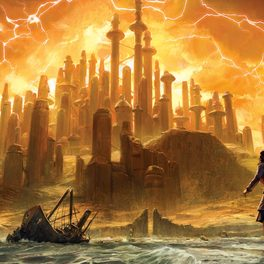
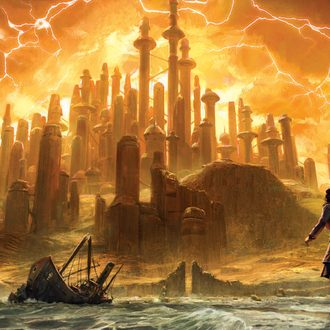
feat: larger pack tiles, art regenerated to match
Pack tiles grow from 176px to 220px squares, the widest that still sets
two two-pack cycles side by side beside the search rail at 1366px; the
medallion and type grow with them. The art tiles are regenerated at
330px, 1.5x the new size (20-34 KB each).

A cycle head now takes its cycle's width instead of setting it, and
wraps its count under a long title: The Innsmouth Conspiracy's head was
wider than its two tiles and pushed Edge of the Earth onto a row alone.

diff --git a/css/style.css b/css/style.css
@@ -534,9 +534,13 @@ a{color:inherit;text-decoration:none}
 }
 .cycle{flex:0 1 auto;min-width:0;max-width:100%}
 
-/* Green band under the head, as wide as the cycle it names. */
+/* Green band under the head, as wide as the cycle it names. The head takes
+   the cycle's width rather than setting it (width 0, min-width 100%), so a
+   long title wraps its count below instead of widening the block past its
+   packs and pushing the next cycle off the row. */
 .section-head{
-  display:flex;align-items:baseline;gap:14px;
+  display:flex;align-items:baseline;flex-wrap:wrap;gap:2px 14px;
+  width:0;min-width:100%;
   padding:30px 0 12px;margin-bottom:18px;
   border-bottom:0;
   background-image:var(--teal-rule),var(--green-sep);
@@ -556,7 +560,7 @@ a{color:inherit;text-decoration:none}
 /* Fixed-width tiles in a wrapping row: the width is what lets a short cycle be
    narrow enough to share its row. */
 .pack-grid{
-  --pack-w:176px;
+  --pack-w:220px;
   display:flex;flex-wrap:wrap;gap:14px;
   padding:4px 2px;
 }
@@ -601,7 +605,7 @@ a{color:inherit;text-decoration:none}
 /* The pack's expansion symbol in brass, set on a faint disc like a medallion
    struck on the panel. A mask, so it takes the colour. */
 .pack-card .pc-cover{
-  position:relative;flex:none;width:60px;aspect-ratio:1;display:grid;place-items:center;
+  position:relative;flex:none;width:76px;aspect-ratio:1;display:grid;place-items:center;
   background:radial-gradient(circle,rgba(13,19,23,.45) 0 58%,rgba(193,184,163,.3) 58.5% 60%,transparent 61%);
 }
 .pack-card .pc-symbol .exp-ico{
@@ -620,7 +624,7 @@ a{color:inherit;text-decoration:none}
   display:flex;flex-direction:column-reverse;align-items:center;gap:5px;
 }
 .pack-card .pc-name{
-  font-family:var(--font-display);font-weight:600;font-size:14px;line-height:1.15;
+  font-family:var(--font-display);font-weight:600;font-size:15.5px;line-height:1.15;
   letter-spacing:.01em;color:var(--ink);
   text-shadow:0 1px 6px rgba(0,0,0,.8);
   /* Two lines, always reserved, so every tile is laid out alike; a longer
@@ -629,9 +633,9 @@ a{color:inherit;text-decoration:none}
   overflow:hidden;min-height:2.3em;
 }
 .pack-card .pc-code{
-  font-family:var(--font-mono);font-size:10.5px;letter-spacing:.2em;text-transform:uppercase;
+  font-family:var(--font-mono);font-size:11px;letter-spacing:.2em;text-transform:uppercase;
   color:var(--ink-2);flex-shrink:0;
-  padding:2px 10px;border:1px solid var(--line);
+  padding:2px 11px;border:1px solid var(--line);
   background:rgba(13,19,23,.6);
 }
 .pack-card .pc-foot{
@@ -641,7 +645,7 @@ a{color:inherit;text-decoration:none}
 /* No count on the tile: a button's worth of chrome for a figure the pack
    picker already lists beside every pack. */
 .pack-card .pc-count{display:none}
-.pack-card .pc-date{font-family:var(--font-body);font-style:italic;font-size:12.5px;line-height:1.2;color:var(--ink-3);text-shadow:0 1px 6px rgba(0,0,0,.8)}
+.pack-card .pc-date{font-family:var(--font-body);font-style:italic;font-size:13.5px;line-height:1.2;color:var(--ink-3);text-shadow:0 1px 6px rgba(0,0,0,.8)}
 /* The arrow rode along the bottom of the sheet; the button says it now. */
 .pack-card .pc-arr{display:none}
 

diff --git a/docs/regen-packart.py b/docs/regen-packart.py
@@ -27,10 +27,10 @@ SRC = os.path.join(ROOT, 'img', 'packs-art')
 OUT = os.path.join(SRC, 'tiles')
 JS = os.path.join(ROOT, 'js', 'packart.js')
 
-# The pack tile is a 176px square; 1.5x covers a sharp hover on dense screens
+# The pack tile is a 220px square; 1.5x covers a sharp hover on dense screens
 # without paying for a full 2x of an image that is shown darkened. JPEG: the
 # art is painted, it compresses well, and every tool opens it.
-TILE_W, TILE_H = 264, 264
+TILE_W, TILE_H = 330, 330
 QUALITY = 82
 
 NAME = re.compile(r'^(?P<ffg>[a-z0-9]+)-(?P<code>[a-z0-9_]+)$', re.I)
